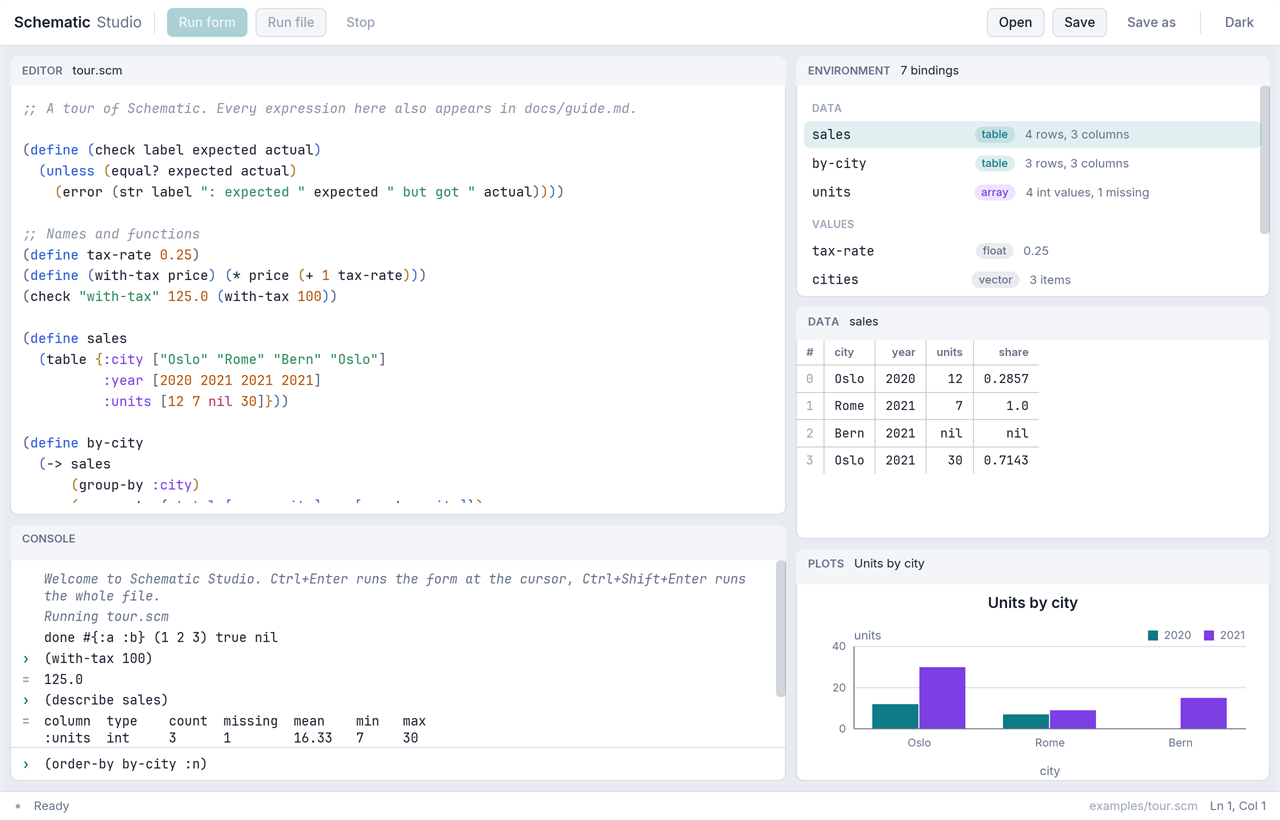
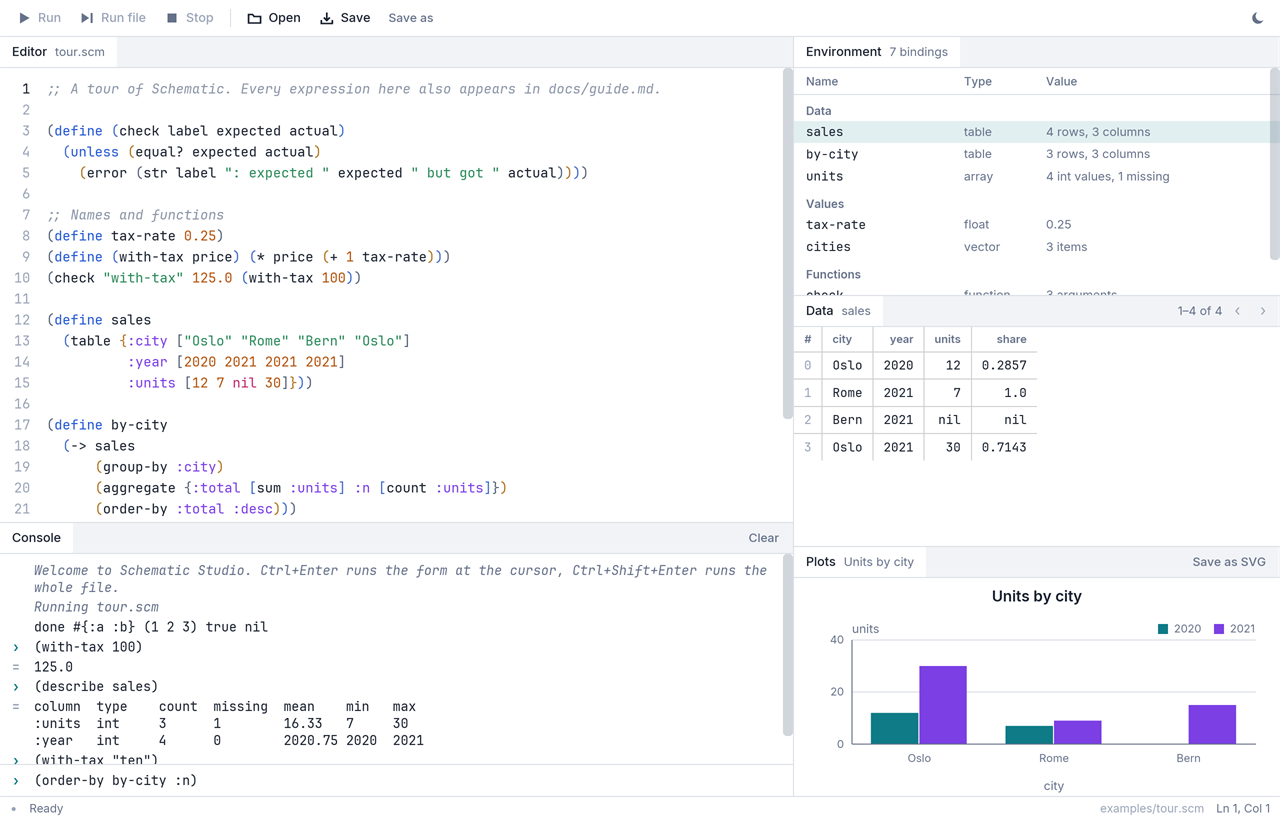
Describe the flat studio and refresh the site screenshot

diff --git a/README.md b/README.md
@@ -80,12 +80,12 @@ cargo test
 ## Schematic Studio
 
 Schematic Studio is a desktop workbench in the spirit of RStudio, built with
-Iced. Four resizable cards sit on a canvas: a script editor with syntax
-highlighting and bracket matching, a console with history, an environment
-pane that groups everything you have defined into data, values, and
-functions, a data viewer that shows tables, arrays, and maps as a grid
-with numbers right-aligned, and a plots pane that draws charts and saves
-them as SVG. It has its own light and dark themes and bundles
+Iced. Five resizable panes meet at hairlines: a script editor with line
+numbers, syntax highlighting, and bracket matching; a console with history;
+an environment table that groups everything you have defined into data,
+values, and functions; a data grid with numbers right-aligned; and a plots
+pane that draws charts and saves them as SVG. It has its own light and dark
+themes and bundles
 the Inter and JetBrains Mono fonts, so it looks the same everywhere. The
 interpreter runs on its own thread, so the window stays responsive and a
 runaway loop can be stopped.
